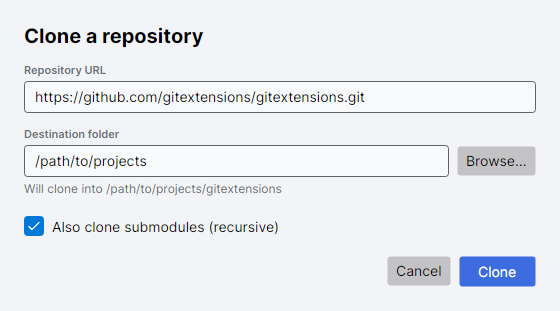
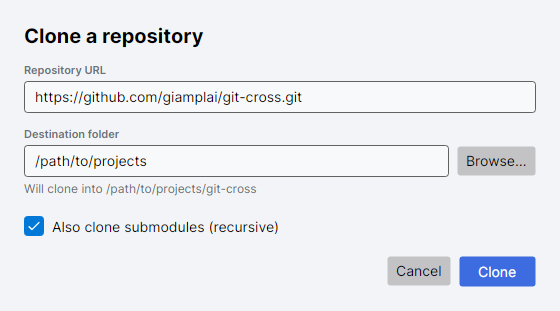
docs: use this project's own URL in the clone example

Changed region(s): [[0.3036, 0.2894, 0.6679, 0.3473], [0.3946, 0.5788, 0.5161, 0.6367]]

diff --git a/tests/GitCross.App.UiTests/WindowRenderTests.cs b/tests/GitCross.App.UiTests/WindowRenderTests.cs
@@ -681,7 +681,7 @@ public class WindowRenderTests
     {
         var clone = new CloneWindow("/path/to/projects");
         clone.Show();
-        clone.FindControl<TextBox>("UrlBox")!.Text = "https://github.com/gitextensions/gitextensions.git";
+        clone.FindControl<TextBox>("UrlBox")!.Text = "https://github.com/giamplai/git-cross.git";
         await Settle();
         Shot(clone, "clone-dialog.png");
         clone.Close();

diff --git a/docs/HOWTO.md b/docs/HOWTO.md
@@ -98,7 +98,7 @@ Below the buttons, **Recent** lists the last 15 repositories; click one to open 
 ![Clone dialog](images/clone-dialog.png)
 
 1. Paste the **Repository URL** (HTTPS, SSH or a local path).
-2. Choose the **Destination folder** (the parent folder; use **Browse…**). The dialog shows the exact folder that will be created, taken from the URL (`…/gitextensions.git` → `gitextensions`). The last folder you used is remembered.
+2. Choose the **Destination folder** (the parent folder; use **Browse…**). The dialog shows the exact folder that will be created, taken from the URL (`…/git-cross.git` → `git-cross`). The last folder you used is remembered.
 3. Leave **Also clone submodules (recursive)** ticked to fetch nested repositories too (untick for a faster clone and initialize them later), then click **Clone**. A progress bar is shown. On success the new repository opens automatically.
 
 Errors (empty URL, destination already exists and is not empty, network or authentication failures) appear in red inside the dialog and nothing is created. Clone never prompts interactively; use an SSH key or a configured credential helper for private repositories.
